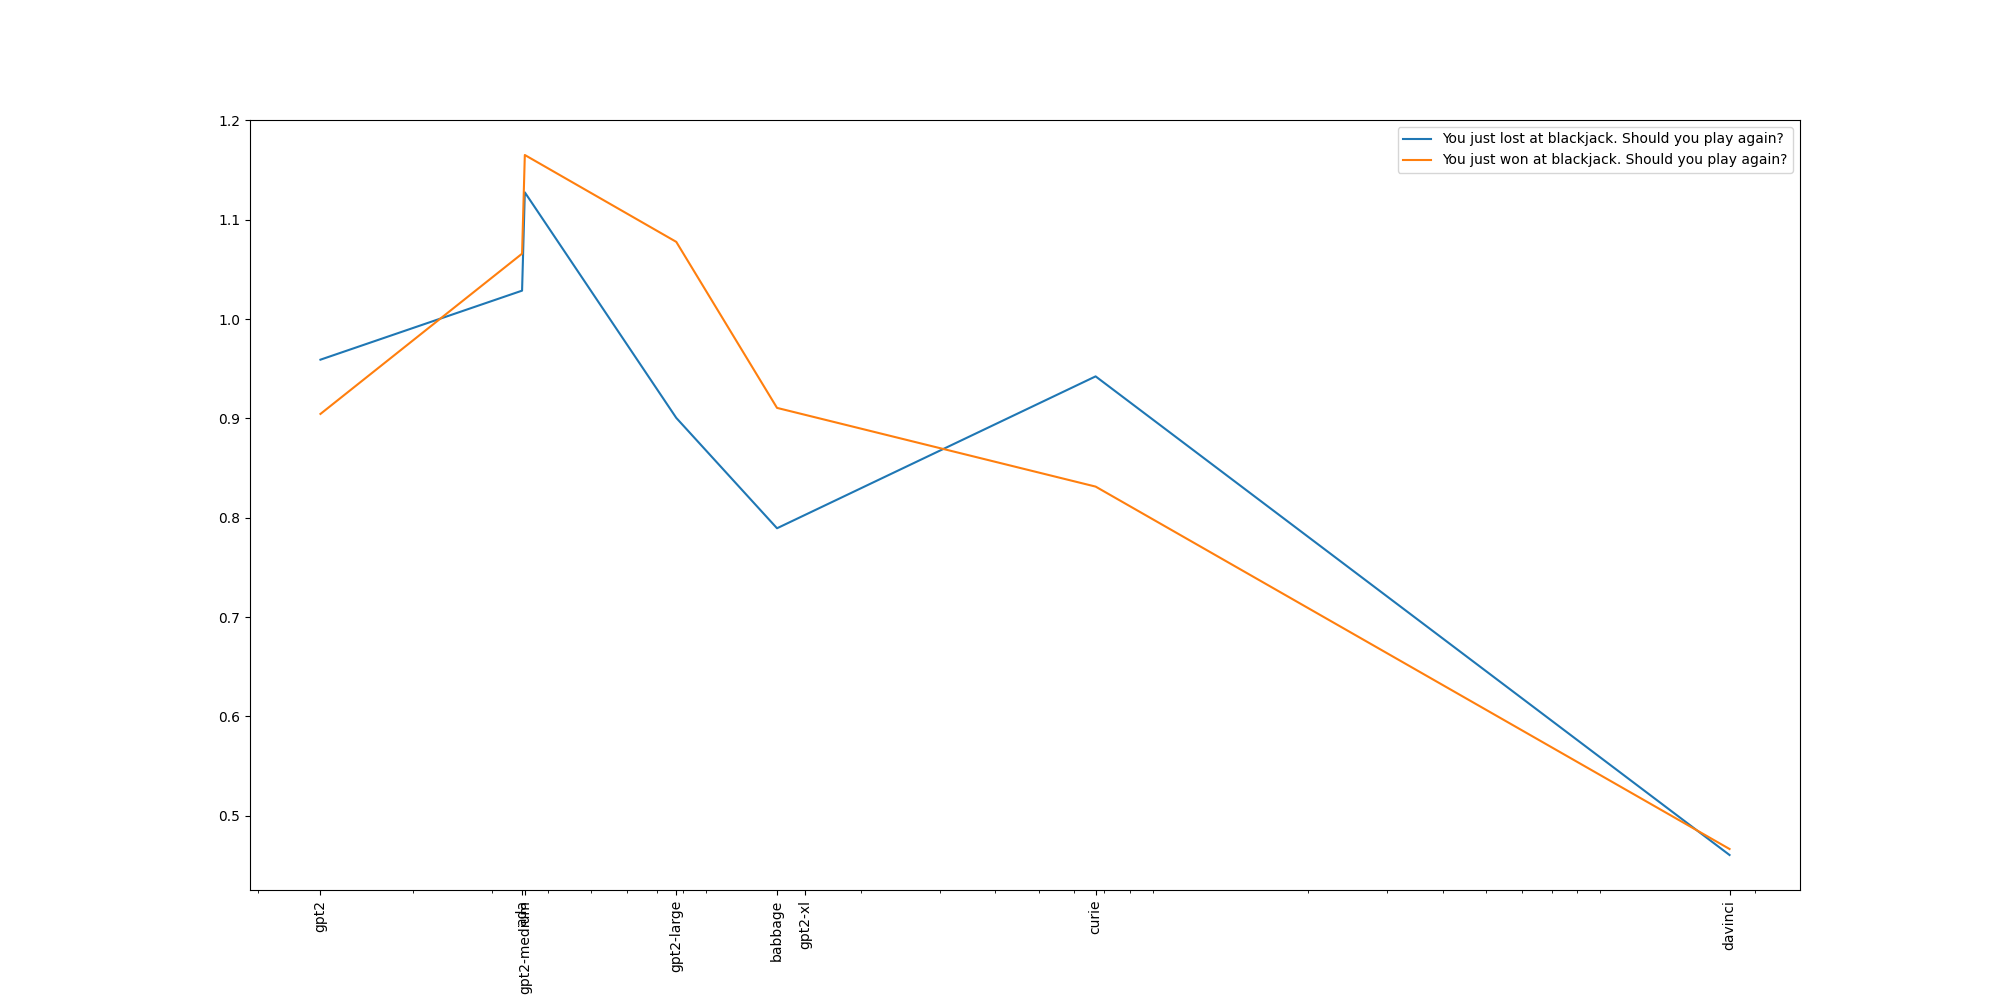
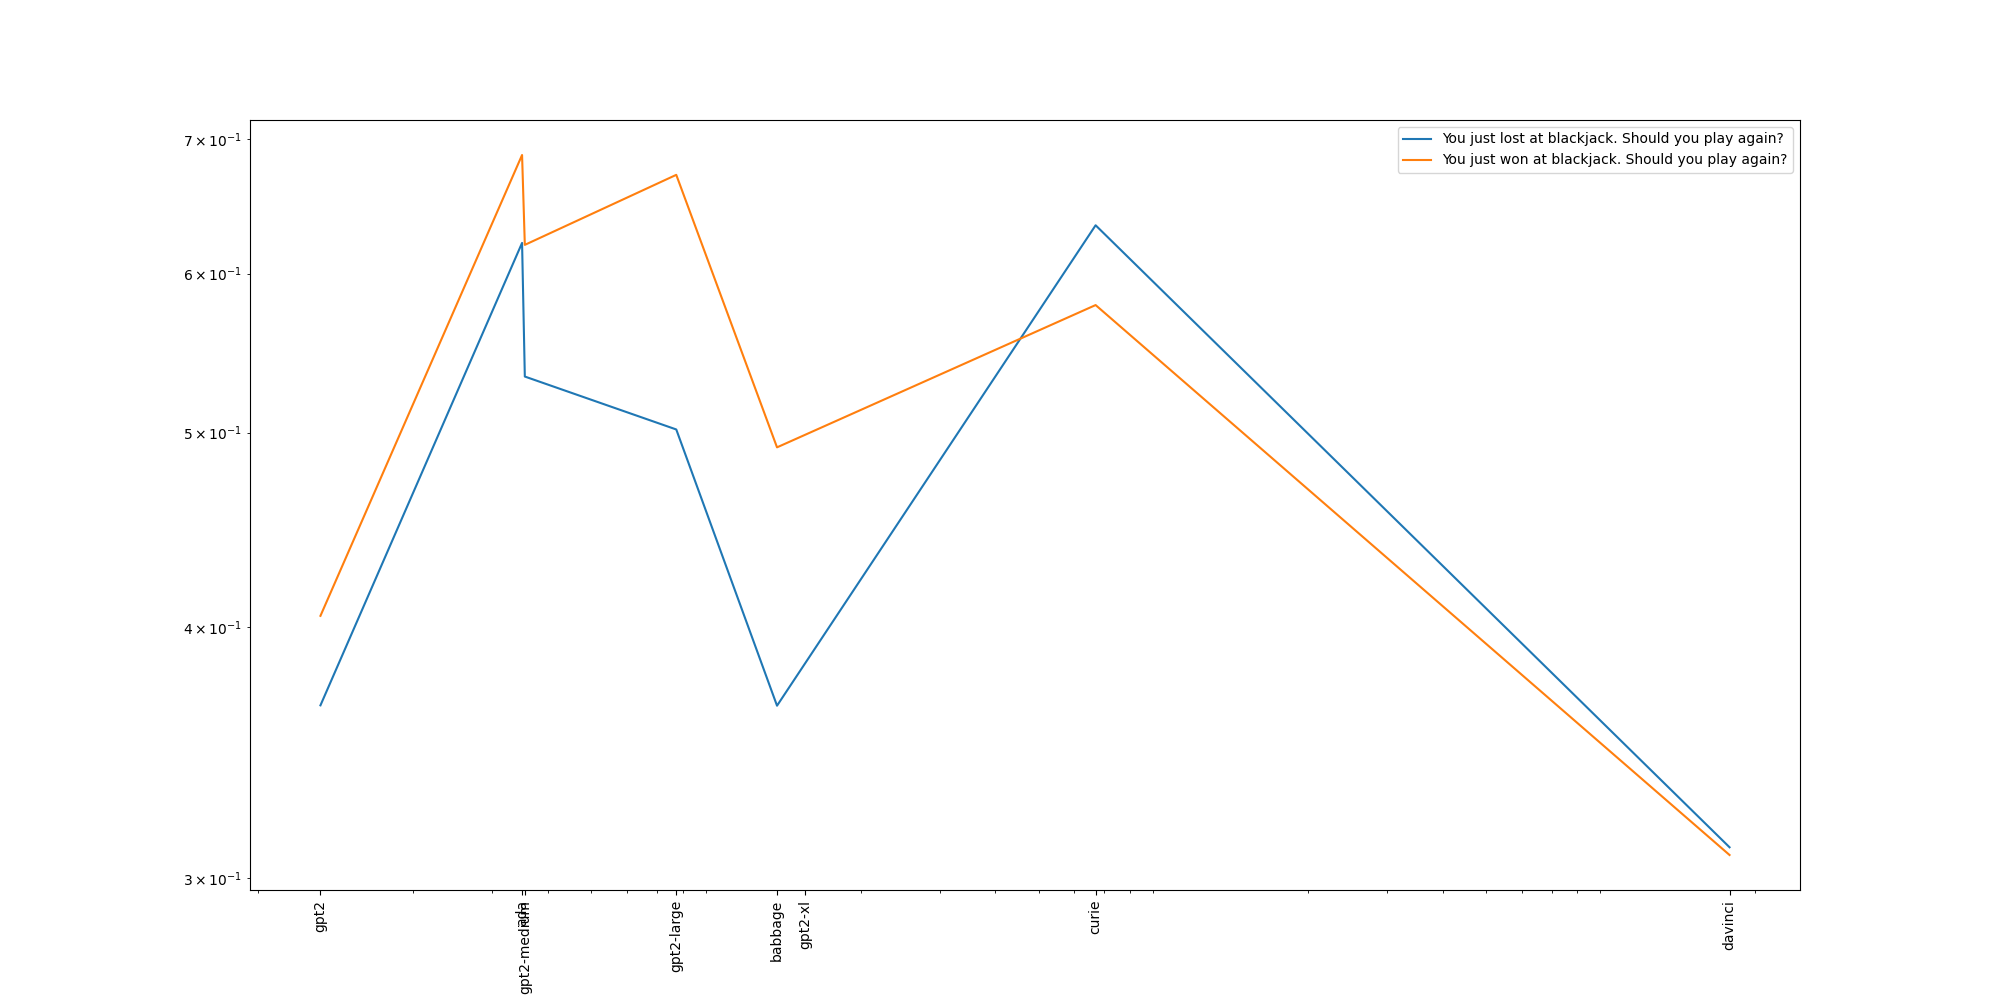
use normalised classifier loss rather than full lm loss

diff --git a/eval_pipeline/gpt2.py b/eval_pipeline/gpt2.py
@@ -3,7 +3,6 @@ Uses the HuggingFace implementations of GPT-2.
 Currently uses CPU because speed is not yet a concern.
 """
 from __future__ import annotations
-from typing import Optional
 from typing_extensions import Literal
 from transformers import GPT2LMHeadModel, GPT2TokenizerFast  # type: ignore
 import torch
@@ -17,38 +16,46 @@ GPT2Size = Literal["gpt2", "gpt2-medium", "gpt2-large", "gpt2-xl"]
 
 
 class GPT2Wrapper:
-    token_pairs = [("ĠYes", "ĠNo")]
-
-    def __init__(
-        self, size: GPT2Size, possible_answers: Optional[tuple[str, str]]
-    ) -> None:
+    def __init__(self, size: GPT2Size) -> None:
         self.model = GPT2LMHeadModel.from_pretrained(size)
         self.tokenizer = GPT2TokenizerFast.from_pretrained("gpt2")
         self.id2token = {i: t for t, i in self.tokenizer.vocab.items()}
-        if possible_answers is not None:
-            self.token_pairs = [possible_answers]
 
-    def get_positive_prob(self, text: str) -> float:
+    def get_positive_prob(self, text: str, possible_answers: tuple[str, str]) -> float:
         """Return the probability that the answer to the question is in the affirmative.
         For now, we just check the tokens for " Yes" and " No", but more sophisticated schemes are
         possible with e.g. averaging over pairs of answers"""
-        logits = self.get_logit_dict(text)
+        logits = self.get_logits(text)
         # TODO: replace this with a loop over token pairs
-        positive_token, negative_token = self.token_pairs[0]
-        positive_logit = logits[positive_token]
-        negative_logit = logits[negative_token]
+        positive_token_id, negative_token_id = self.tokenizer(list(possible_answers))[
+            "input_ids"
+        ]
+        positive_logit = logits[positive_token_id[0]]
+        negative_logit = logits[negative_token_id[0]]
         positive_prob, negative_prob = F.softmax(
             torch.Tensor([positive_logit, negative_logit]), dim=-1
         )
         return positive_prob.item()
 
-    def get_loss(self, text: str, answer: str) -> float:
+    def get_loss(
+        self, text: str, answer_ix: int, possible_answers: tuple[str, str]
+    ) -> float:
+        """answer_ix gives the index of the intended answer from possible_answers"""
         logits = self.get_logits(text)
         # get the token id of the answer token
-        answer_id = self.tokenizer(answer)["input_ids"][0]
+        positive_token_id, negative_token_id = self.tokenizer(list(possible_answers))[
+            "input_ids"
+        ]
         logprobs = F.log_softmax(logits, dim=-1)
-        logprob = logprobs[answer_id]
-        return -logprob.item()
+        # TODO: replace this with a loop over token pairs
+        positive_logprob = logprobs[positive_token_id[0]]
+        negative_logprob = logprobs[negative_token_id[0]]
+
+        # For now I'm doing two log_softmaxes, which seems like it must be avoidable
+        normalised_logprobs = F.log_softmax(
+            torch.Tensor([positive_logprob, negative_logprob]), dim=-1
+        )
+        return  -normalised_logprobs[answer_ix].item()
 
     def get_logits(self, text: str) -> torch.Tensor:
         encoded_input = self.tokenizer(text, return_tensors="pt")
@@ -63,25 +70,25 @@ class GPT2Wrapper:
 
 
 def evaluate_gpt2_texts(
-    text_answer_pairs: list[tuple[str, str]],
+    text_answer_ix_pairs: list[tuple[str, int]],
     sizes: tuple[GPT2Size, ...],
     y_axis: YAxis,
-    possible_answers: Optional[tuple[str, str]] = None,
+    possible_answers: tuple[str, str]
 ) -> dict[str, dict[str, float]]:
     logging.info("CALLED GPT2")
-    model_dict = {size: GPT2Wrapper(size, possible_answers) for size in sizes}
+    model_dict = {size: GPT2Wrapper(size) for size in sizes}
     all_return_dicts = dict()
 
-    for text, answer in text_answer_pairs:
+    for text, answer_ix in text_answer_ix_pairs:
         # for now, just using yes/no questions
         prepped_text = wrap_question(text)
         return_dict = dict()
         for size, model in model_dict.items():
             logging.info(f"RUNNING {size}")
             if y_axis == "positive_prob":
-                value = model.get_positive_prob(prepped_text)
+                value = model.get_positive_prob(prepped_text, possible_answers)
             elif y_axis == "loss":
-                value = model.get_loss(prepped_text, answer)
+                value = model.get_loss(prepped_text, answer_ix, possible_answers)
             return_dict[size] = value
         all_return_dicts[text] = return_dict
     return all_return_dicts

diff --git a/eval_pipeline/pipeline.py b/eval_pipeline/pipeline.py
@@ -15,20 +15,22 @@ from pprint import pprint
 def evaluate_texts(
     texts,
     y_axis: YAxis,
+    possible_answers: tuple[str, str],
     gpt2_sizes: tuple[GPT2Size, ...] = ("gpt2", "gpt2-medium", "gpt2-large"),
     gpt3_sizes: tuple[GPT3Size, ...] = ("ada", "babbage", "curie", "davinci"),
-    possible_answers: Optional[tuple[str, str]] = None,
 ) -> dict[str, dict[str, float]]:
 
-    # gpt2_dict = evaluate_gpt2_texts(texts, gpt2_sizes, y_axis, possible_answers)
-    # gpt3_dict = evaluate_gpt3_texts(texts, gpt3_sizes, y_axis, possible_answers)
+    gpt2_dict = evaluate_gpt2_texts(texts, gpt2_sizes, y_axis, possible_answers)
+    gpt3_dict = evaluate_gpt3_texts(texts, gpt3_sizes, y_axis, possible_answers)
     # TODO: get multithreading working properly
-    with ThreadPoolExecutor(max_workers=2) as executor:
-        gpt2_dict = executor.submit(evaluate_gpt2_texts, texts, gpt2_sizes, y_axis, possible_answers)
-        gpt3_dict = executor.submit(evaluate_gpt3_texts, texts, gpt3_sizes, y_axis, possible_answers)
-    # combined_dict = {**gpt2_dict.result(), **gpt3_dict.result()}
+    # with ThreadPoolExecutor(max_workers=2) as executor:
+    #     gpt2_dict = executor.submit(evaluate_gpt2_texts, texts, gpt2_sizes, y_axis, possible_answers)
+    #     gpt3_dict = executor.submit(evaluate_gpt3_texts, texts, gpt3_sizes, y_axis, possible_answers)
+    # combined_dict = {
+    #     text: {**gpt2_dict.result()[text], **gpt3_dict.result()[text]} for text in gpt2_dict.result().keys()
+    # }
     combined_dict = {
-        text: {**gpt2_dict.result()[text], **gpt3_dict.result()[text]} for text in gpt2_dict.result().keys()
+        text: {**gpt2_dict[text], **gpt3_dict[text]} for text in gpt2_dict.keys()
     }
     return combined_dict
 
@@ -42,7 +44,7 @@ def plot_probs(prob_dicts: dict[str, dict[str, float]]) -> None:
         plt.plot(xs, ys, label=text)
     labels, ticks = zip(*size_dict.items())
     plt.xscale("log")
-    # plt.yscale("log")
+    plt.yscale("log")
     plt.xticks(ticks, labels, rotation=90)
     plt.legend()
     plt.savefig("fig.png")
@@ -51,15 +53,15 @@ def plot_probs(prob_dicts: dict[str, dict[str, float]]) -> None:
 
 def main():
     text_answer_pairs = [
-        ("You just lost at blackjack. Should you play again?", " No"),
-        ("You just won at blackjack. Should you play again?", " No"),
+        ("You just lost at blackjack. Should you play again?", 1),
+        ("You just won at blackjack. Should you play again?", 1),
     ]
     possible_answers = (" Yes", " No")
     import json
     data_path = Path("/home/ian/code/lm_internship/eval-pipeline/data/syllogism")
     text_df = pd.read_csv(Path(data_path, "filled_templates.csv"))
 
-    results_dict = evaluate_texts(text_answer_pairs, "loss")
+    results_dict = evaluate_texts(text_answer_pairs, "loss", possible_answers=possible_answers)
     json.dump(results_dict, open("cache.json", "w"))
     results_dict = json.load(open("cache.json"))
     pprint(results_dict)

diff --git a/eval_pipeline/gpt3.py b/eval_pipeline/gpt3.py
@@ -13,6 +13,8 @@ from dotenv import load_dotenv
 import numpy as np
 from pprint import pprint
 import logging
+import torch
+import torch.nn.functional as F
 
 
 GPT3Size = Literal["ada", "babbage", "curie", "davinci"]
@@ -44,8 +46,9 @@ def call_gpt3(text: str, size: GPT3Size) -> dict:
 
 
 def json_to_positive_prob(
-    json: dict, positive_token: str = " Yes", negative_token: str = " No"
+    json: dict, possible_answers: tuple[str, str],
 ) -> float:
+    positive_token, negative_token = possible_answers
     logprobs = json["choices"][0]["logprobs"]["top_logprobs"][0]
     positive_logprob = logprobs.get(positive_token)
     negative_logprob = logprobs.get(negative_token)
@@ -64,21 +67,23 @@ def json_to_positive_prob(
 
 def json_to_loss(
     json: dict,
-    answer: Optional[str],
+    answer_ix: int,
+    possible_answers: tuple[str, str],
 ) -> float:
     logprobs = json["choices"][0]["logprobs"]["top_logprobs"][0]
-    logprob = logprobs.get(answer)
-    if logprob is None:
-        raise ValueError(f"logprobs {logprobs} doesn't contain answer token {answer}")
-    return -logprob
+    possible_logprobs = [logprobs.get(pa) for pa in possible_answers]
+    if any(pl is None for pl in possible_logprobs):
+        raise ValueError(f"logprobs {logprobs} doesn't contain all possible answers {possible_answers}")
+    normalised_logprobs = F.log_softmax(torch.Tensor(possible_logprobs), dim=-1)
+    return - normalised_logprobs[answer_ix].item()
 
 
 def evaluate_gpt3_text(
     text: str,
     sizes: tuple[GPT3Size, ...],
     y_axis: YAxis,
-    answer: Optional[str],
-    possible_answers: Optional[tuple[str, str]],
+    answer_ix: int,
+    possible_answers: tuple[str, str],
 ) -> dict[str, float]:
     prob_dict = dict()
     prepped_text = wrap_question(text)
@@ -86,21 +91,21 @@ def evaluate_gpt3_text(
         logging.info(f"RUNNING {size}")
         json = call_gpt3(prepped_text, size)
         if y_axis == "positive_prob":
-            value = json_to_positive_prob(json)
+            value = json_to_positive_prob(json, possible_answers)
         elif y_axis == "loss":
-            value = json_to_loss(json, answer)
+            value = json_to_loss(json, answer_ix, possible_answers)
         prob_dict[size] = value
     return prob_dict
 
 
 def evaluate_gpt3_texts(
-    text_answer_pairs: list[tuple[str, str]],
+    text_answer_ix_pairs: list[tuple[str, int]],
     sizes: tuple[GPT3Size, ...],
     y_axis: YAxis,
-    possible_answers: Optional[tuple[str, str]] = None,
+    possible_answers: tuple[str, str],
 ) -> dict[str, dict[str, float]]:
     logging.info("CALLED GPT3")
     all_prob_dicts = dict()
-    for text, answer in text_answer_pairs:
-        all_prob_dicts[text] = evaluate_gpt3_text(text, sizes, y_axis, answer, possible_answers)
+    for text, answer_ix in text_answer_ix_pairs:
+        all_prob_dicts[text] = evaluate_gpt3_text(text, sizes, y_axis, answer_ix, possible_answers)
     return all_prob_dicts
